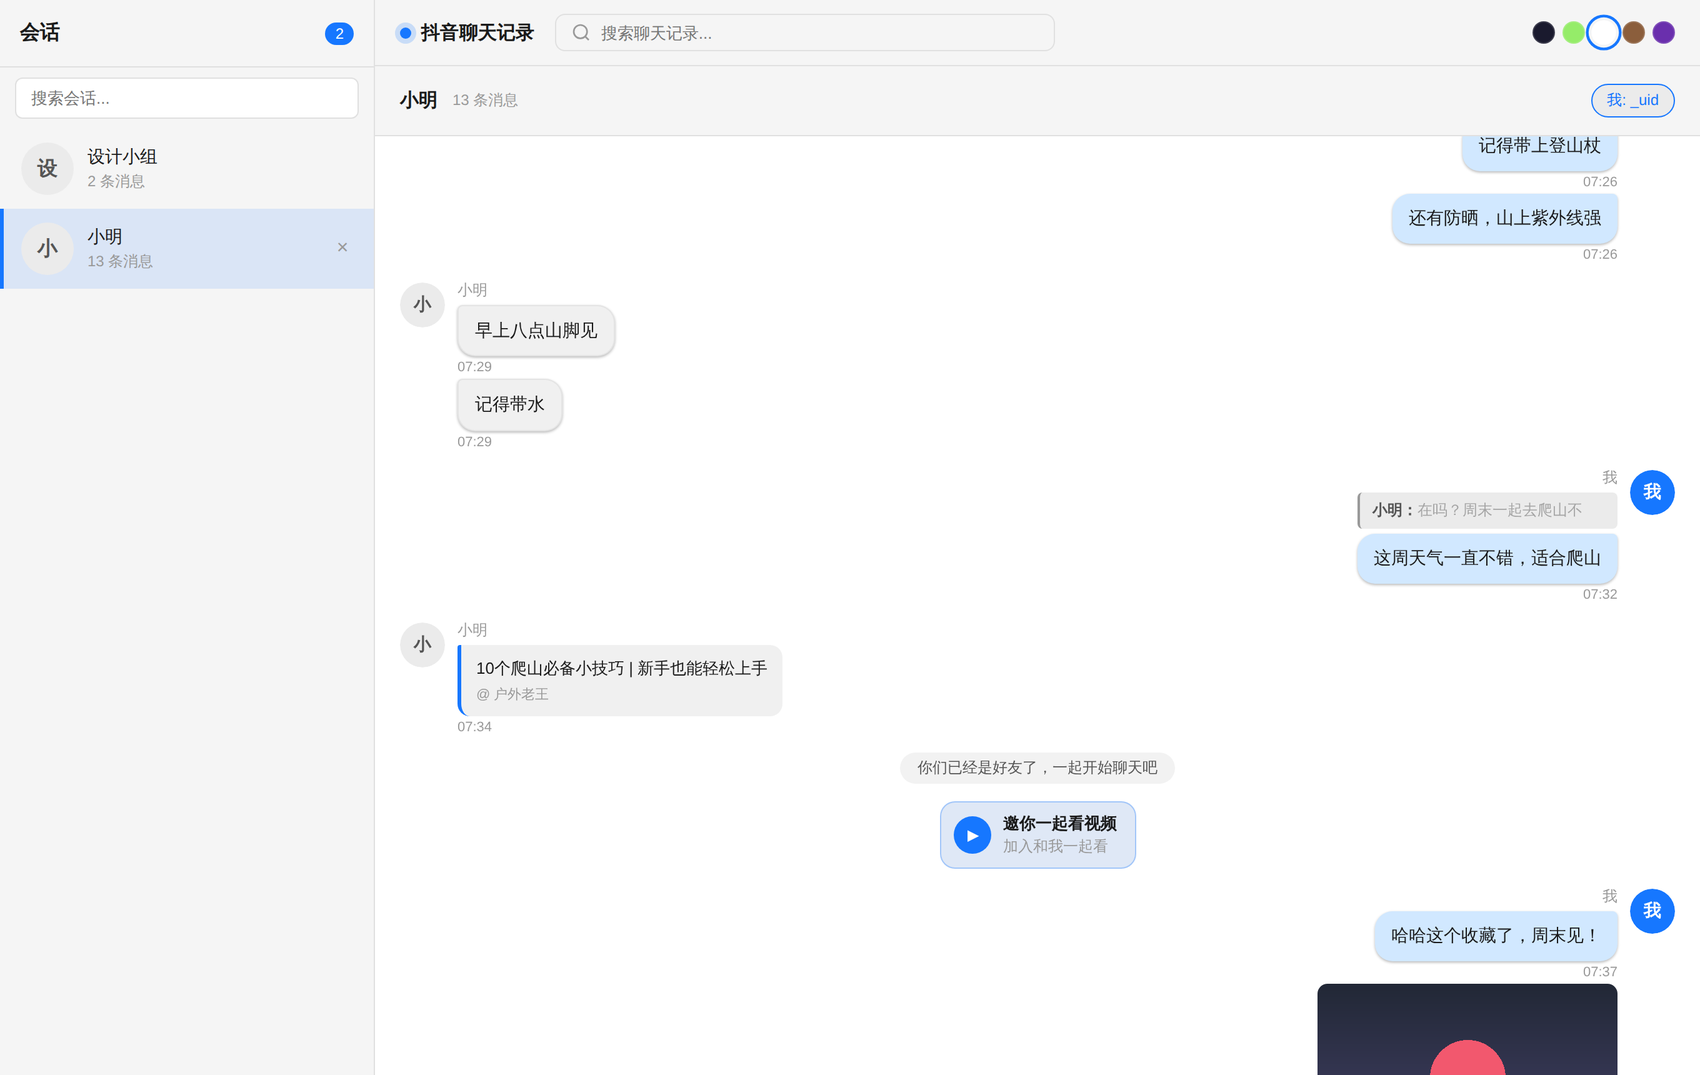
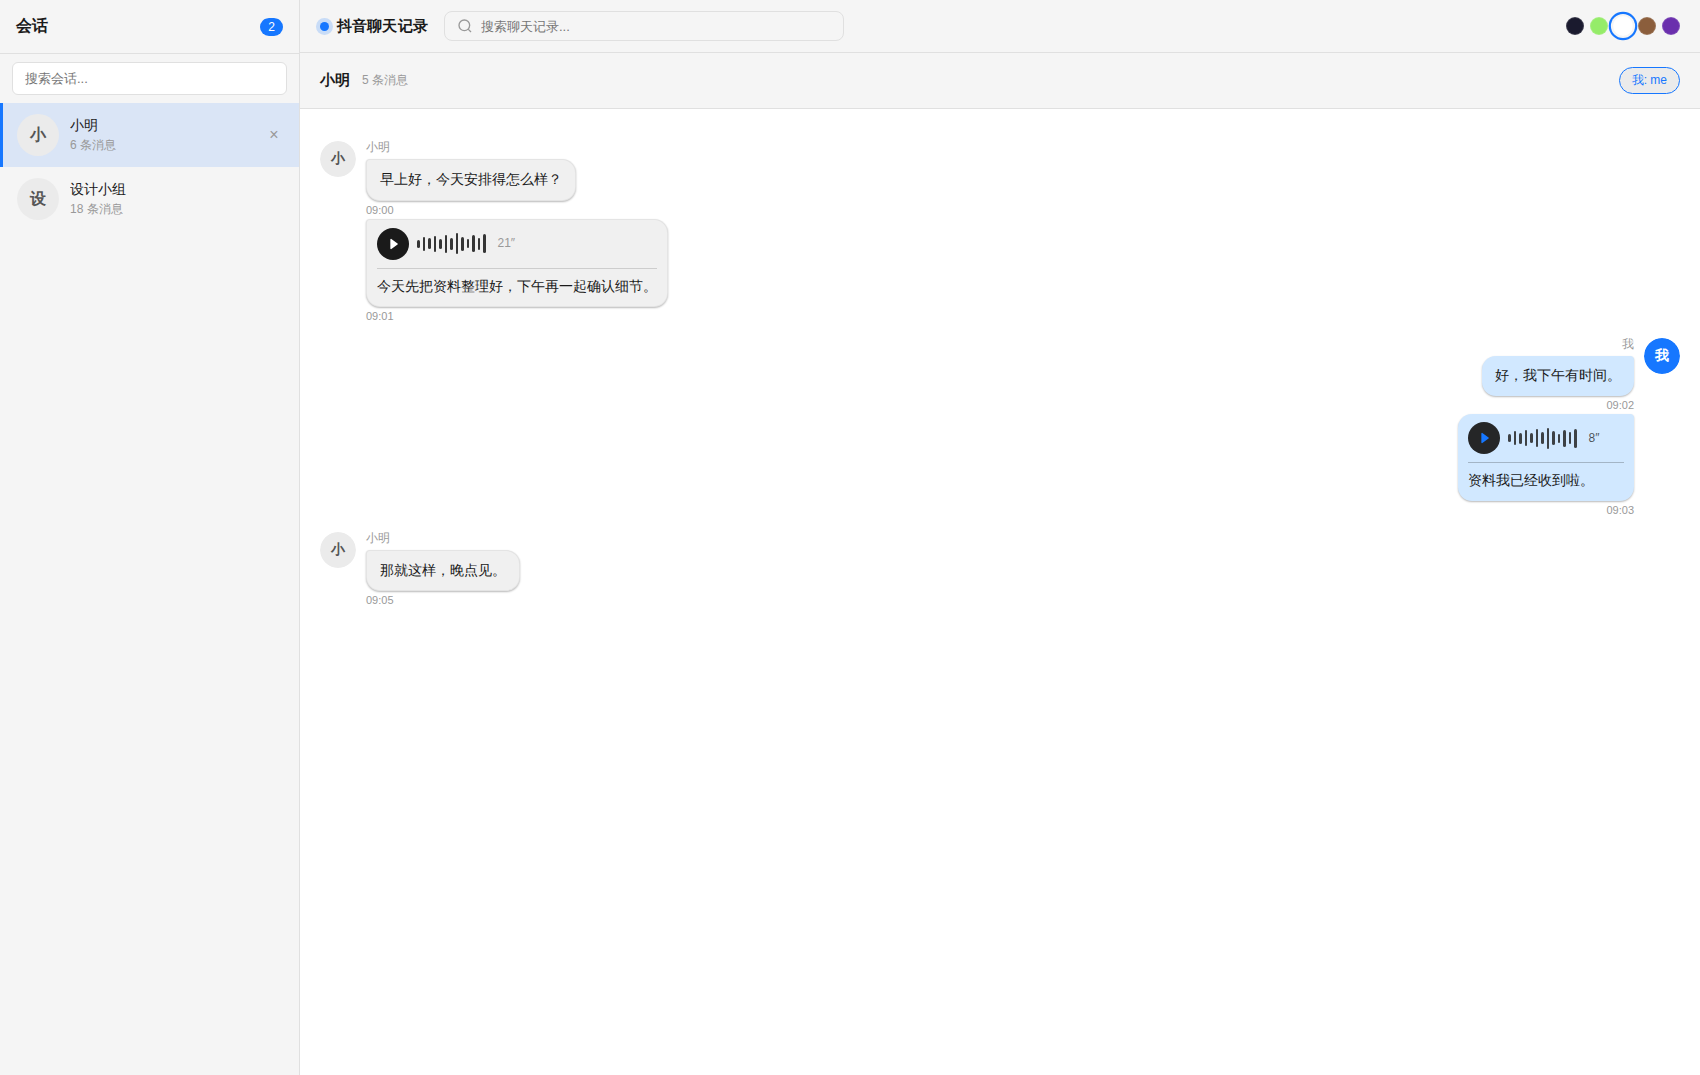
docs: update export guide and screenshots

diff --git a/README.md b/README.md
@@ -247,7 +247,9 @@ python3 export.py --filter "会话名称" --output data/export.jsonl
 
 新采集的语音会自动转写。对已经保存的历史消息，可在控制面板 **采集** 分区点击「补充历史语音转写」，或执行 `python3 extract.py --transcribe-voices`。任务只处理尚未完成的语音，不会重新采集全部聊天记录；缺少的发送者信息会在需要时自动补充。
 
-控制面板还支持选择「整个数据库（SQLite，可导入）」导出完整的 `chat.db`，以及选择之前导出的 SQLite 文件「导入并覆盖数据库」。导入前会先校验数据库结构，并自动保留一份当前数据库备份；导入时请先停止正在运行的采集或媒体下载任务。
+### 4. 导出整个数据库
+
+在控制面板 **导出/导入** 分区选择「整个数据库（SQLite，可导入）」即可备份完整聊天数据库。需要恢复时，选择之前导出的 SQLite 文件并点击「导入并覆盖数据库」；导入前会自动保留当前数据库备份。导入或恢复前请先停止正在运行的采集和媒体下载任务。
 
 ## 控制面板
 
